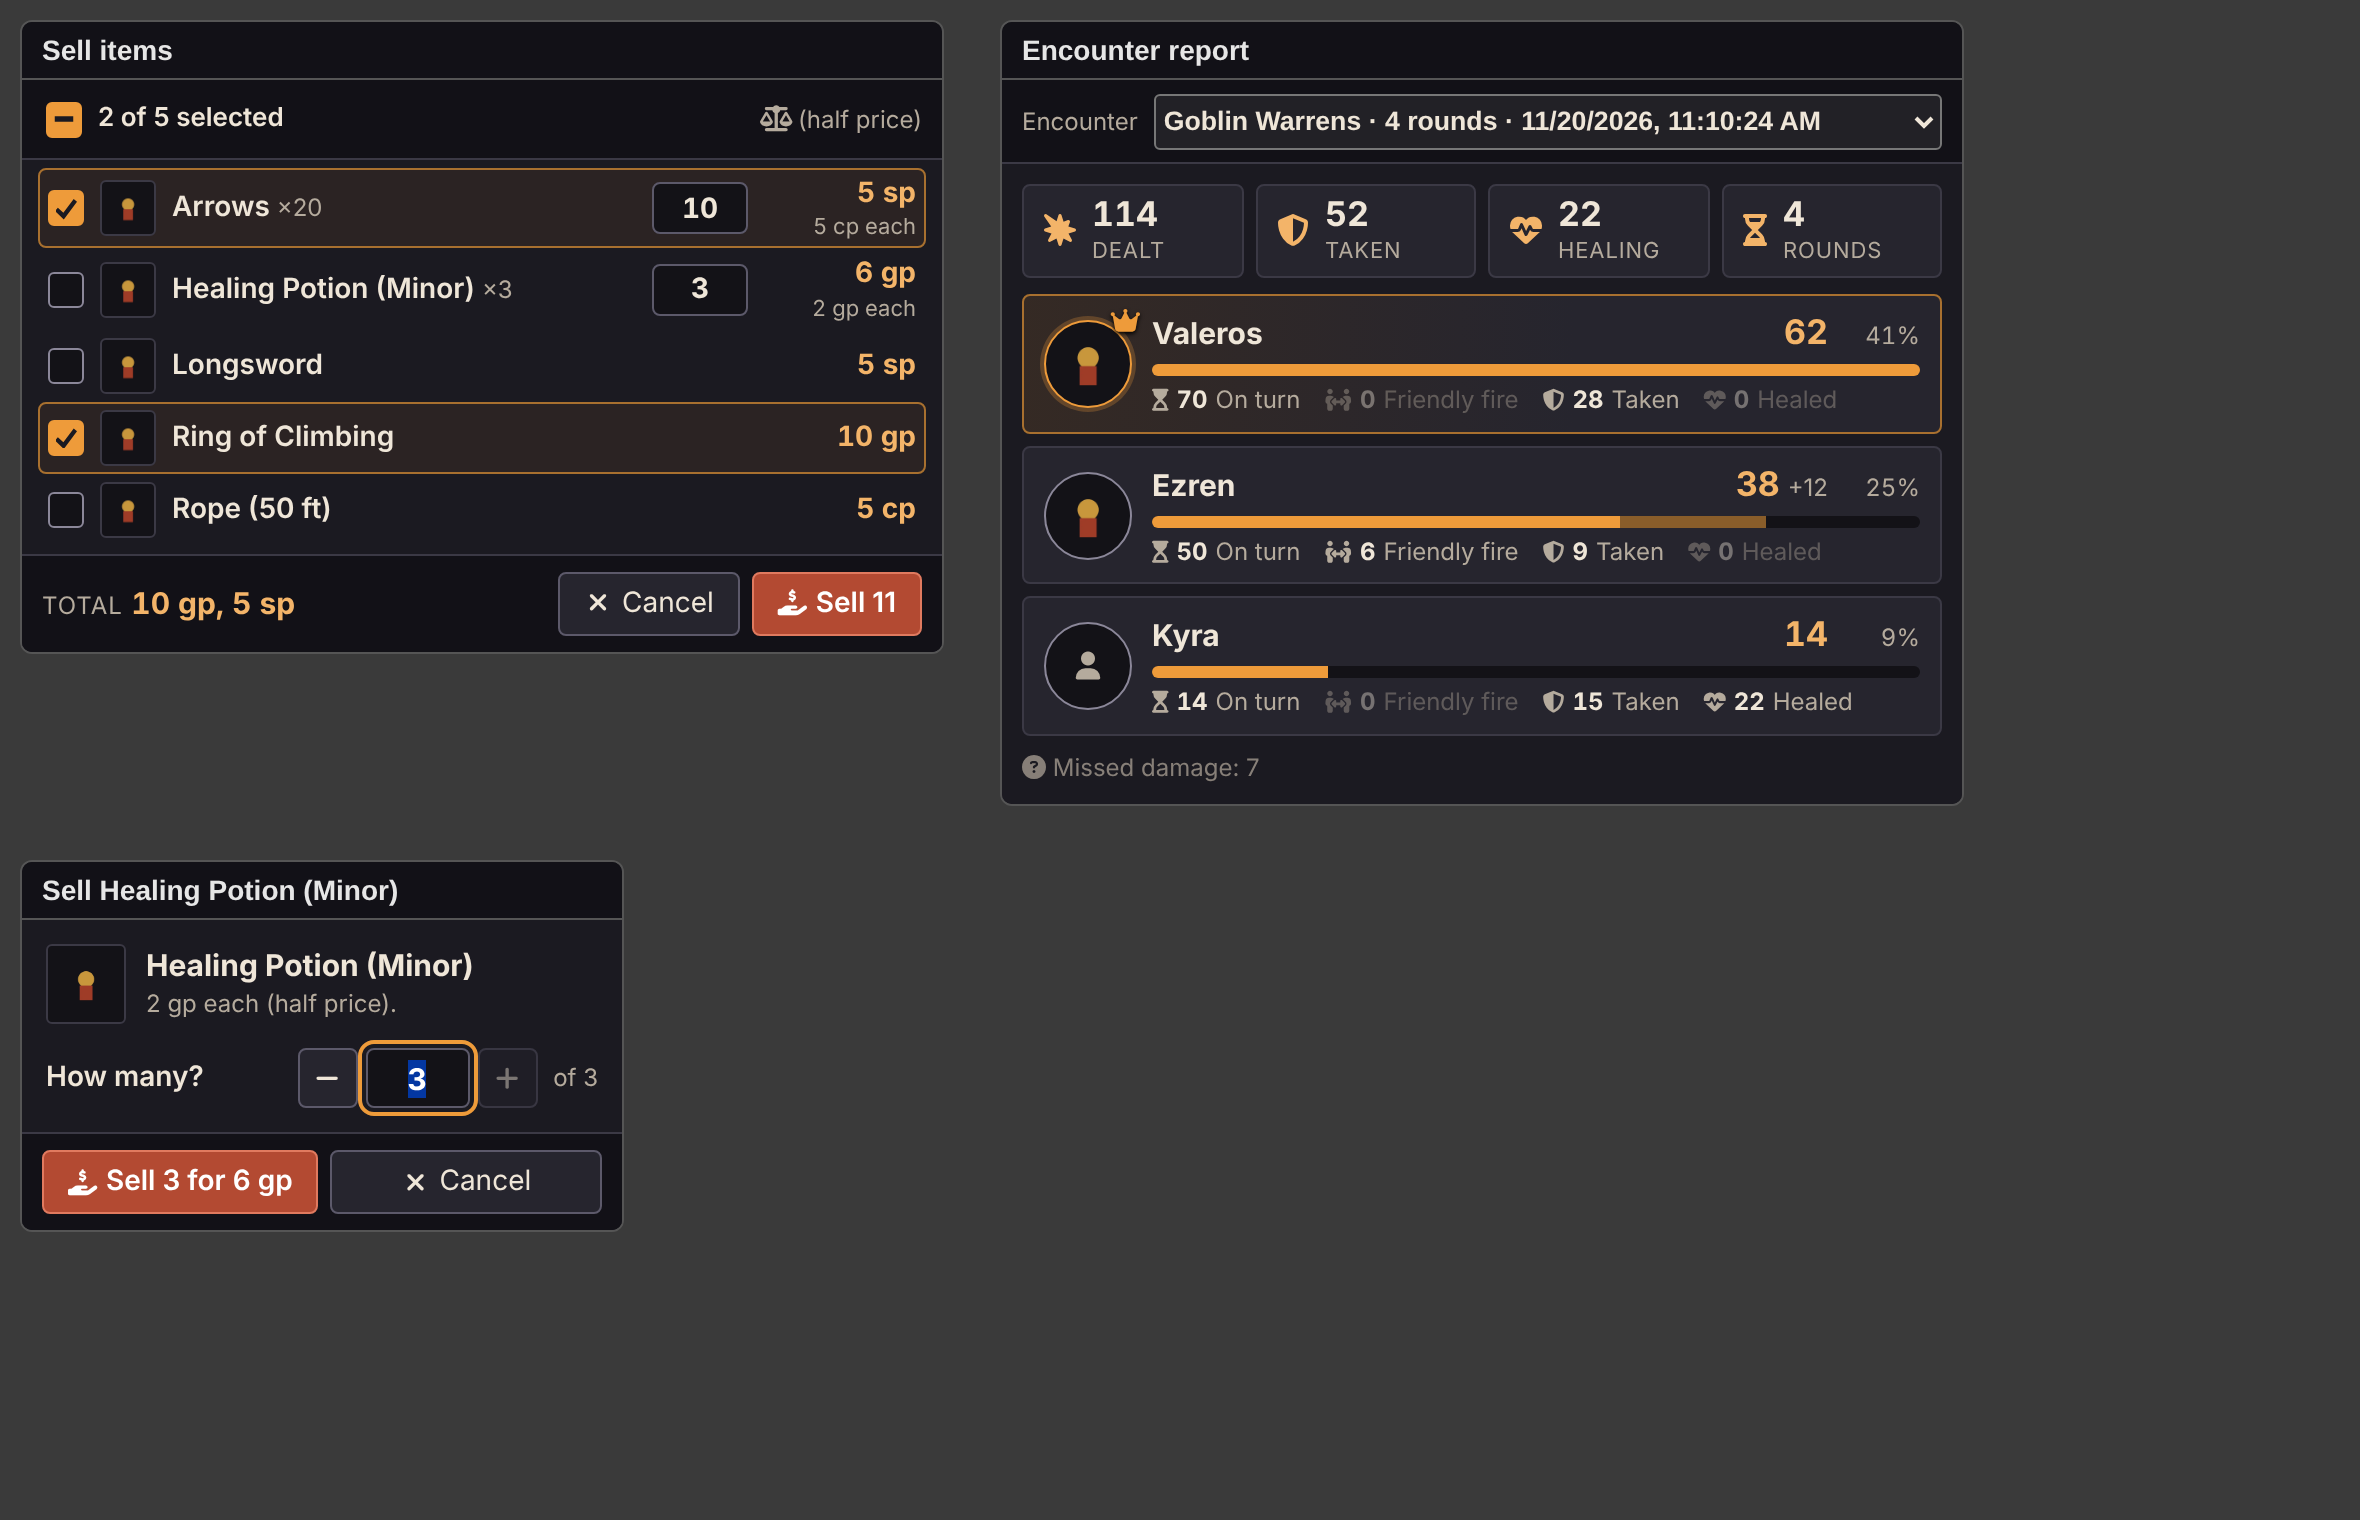
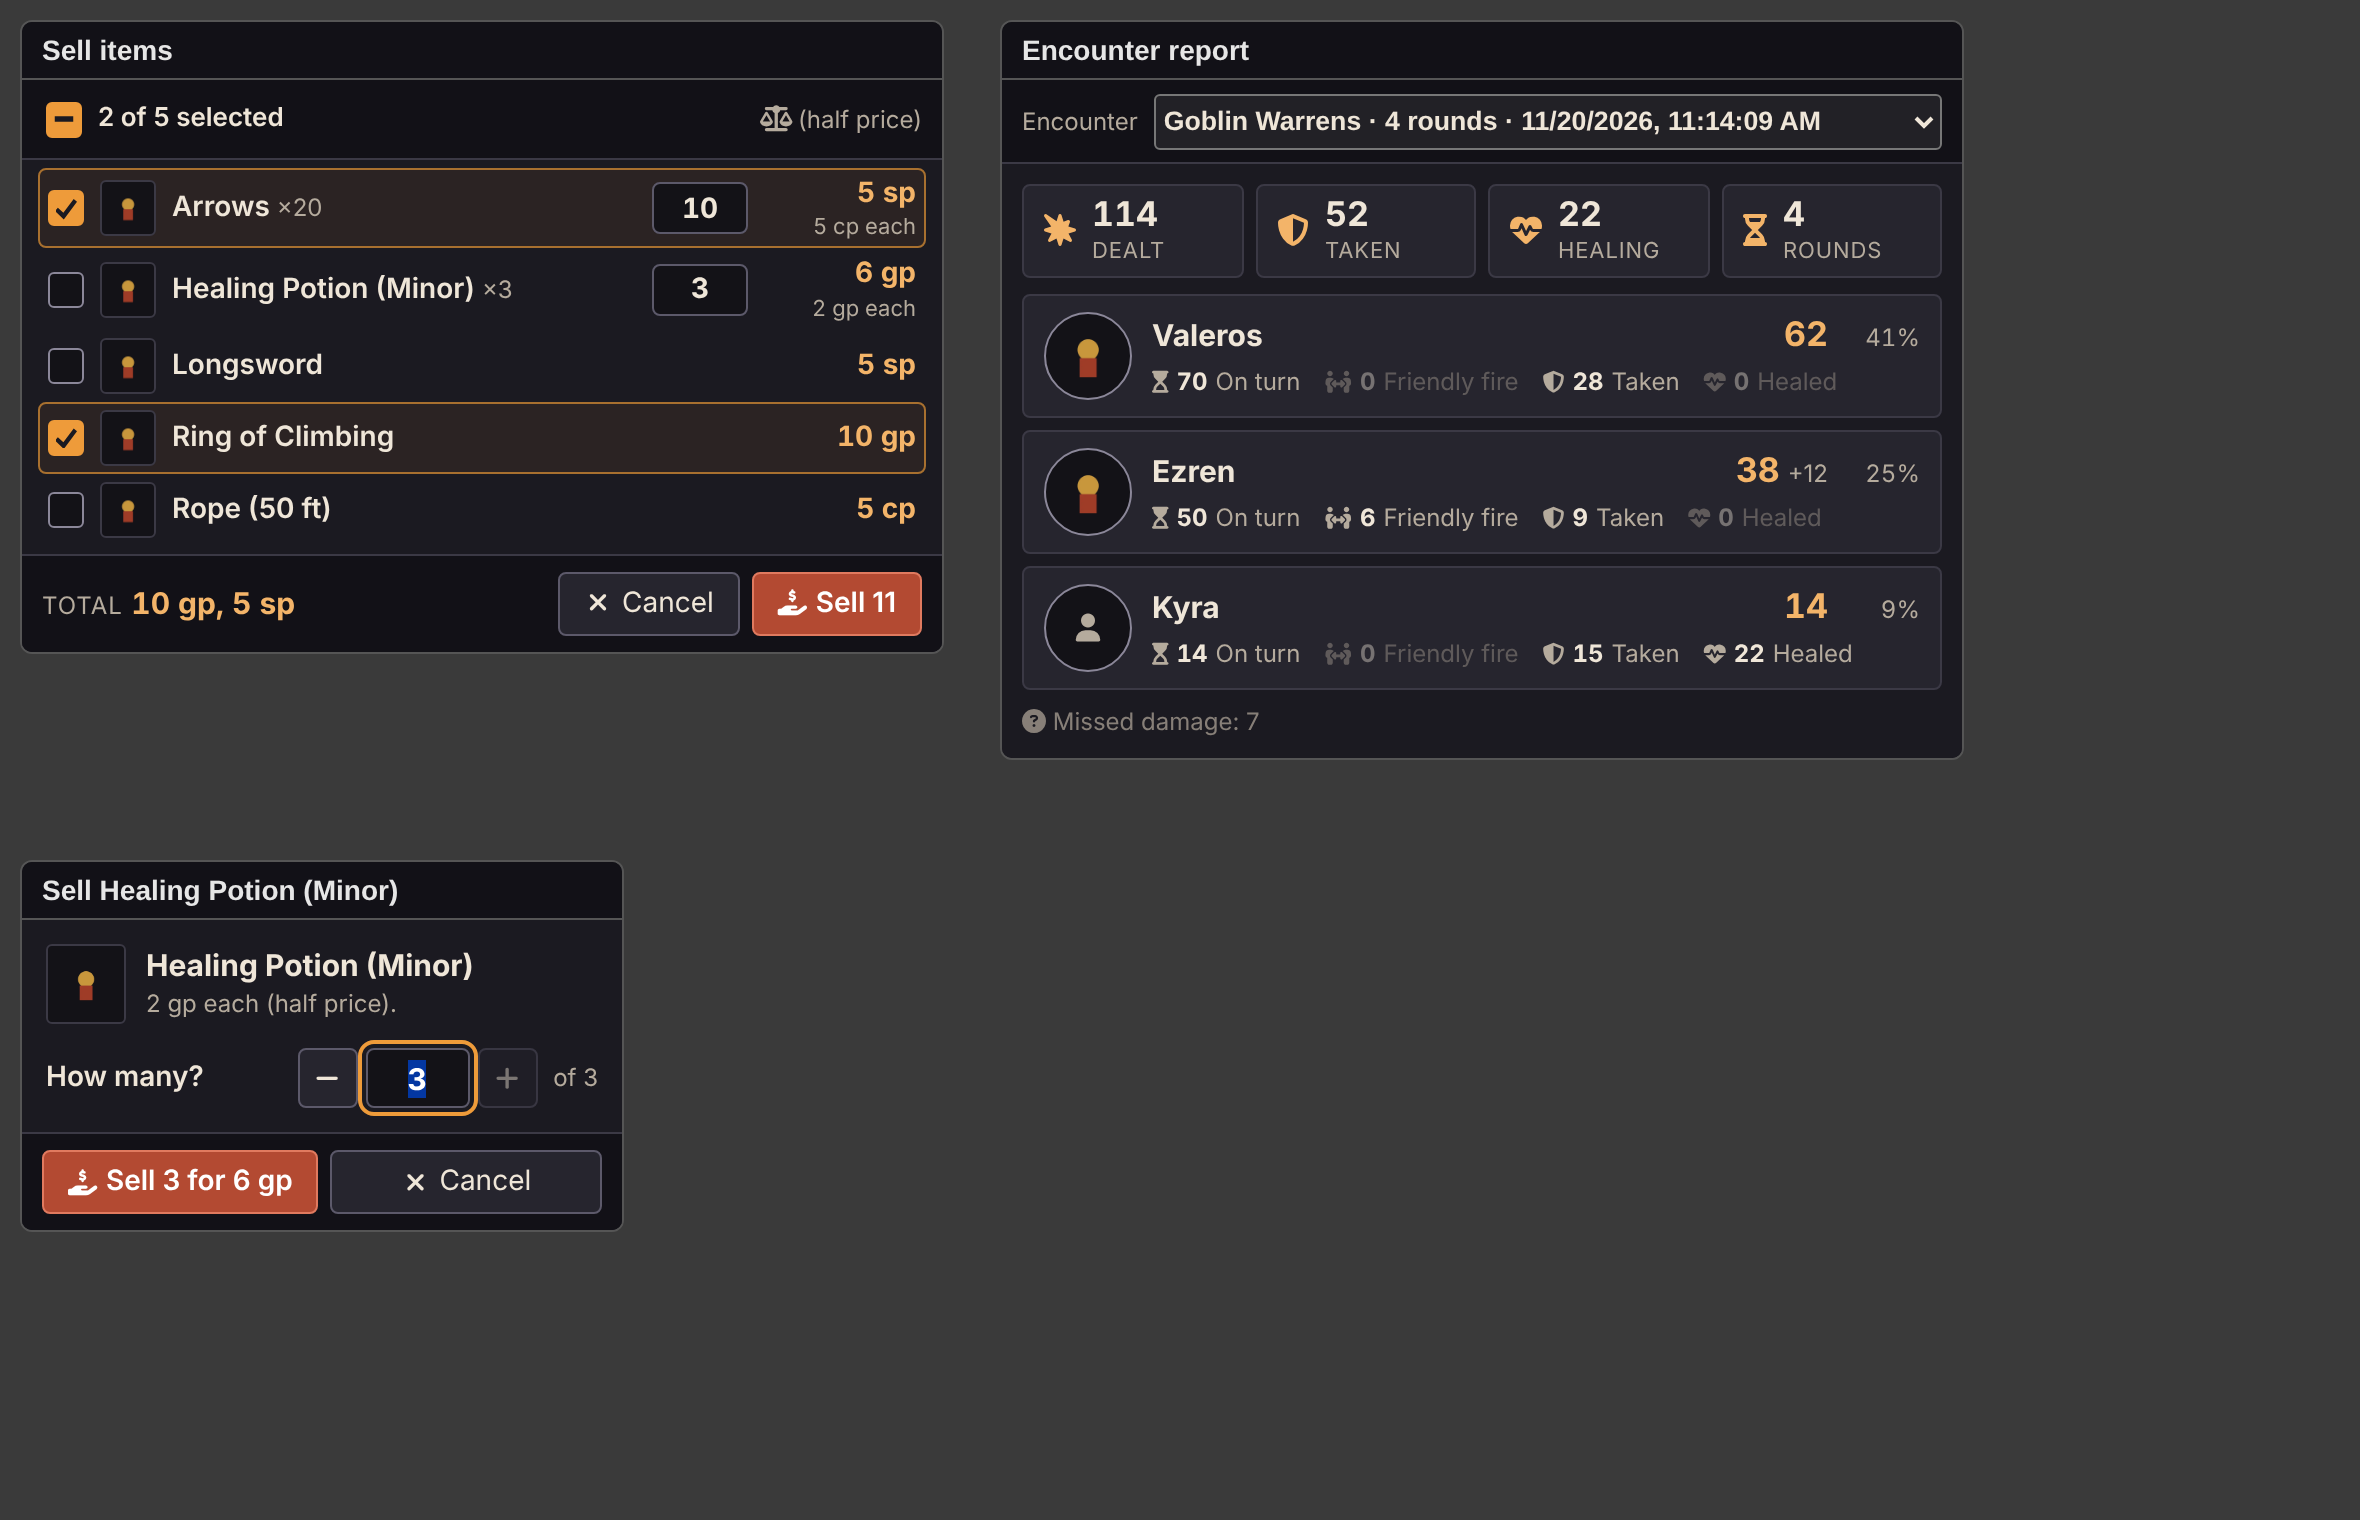
Encounter Report: no crown, no damage bars, sorted by name: just the stats (0.84.6)
Claude-Session: https://claude.ai/code/session_0153o4Cj7a7h2Yvc4QXnWoxi

Changed region(s): [[0.4331, 0.1855, 0.8352, 0.3711], [0.4021, 0.402, 0.8352, 0.5566], [0.6496, 0.402, 0.8042, 0.4638]]

diff --git a/scripts/features/encounter-report.js b/scripts/features/encounter-report.js
@@ -21,7 +21,7 @@ const dbg = (...args) => { if (CONFIG.debug?.lucd20Report || CONFIG.debug?.lucd2
  *
  * The report window (v0.84.3; was a chat card): opens for everyone at the end (option: GM only), with a
  * list of past encounters; reopened from the chat's buttons. One row per creature on the players' side that took part,
- * best first:
+ * by name (v0.84.6; was best first):
  *   Damage (dealt by itself to enemies; minions' / companions' damage also shown added to their master,
  *   "45 +12") | % of enemy HP (its damage ÷ the HP the enemies had when the combat started) | On its turn
  *   (damage to enemies by anyone on its side during its turn: the commander case) | Friendly fire | Taken |
@@ -199,18 +199,18 @@ export function buildReport(data) {
   const out = Object.values(rows)
     .filter(r => side(r.uuid) === FRIENDLY && !p[r.uuid]?.hidden)
     .map(r => ({ ...r, pct: enemyHP(side(r.uuid)) ? Math.round((r.damage / enemyHP(side(r.uuid))) * 100) : 0 }))
-    .sort((a, b) => b.damage + b.companions - (a.damage + a.companions) || a.name.localeCompare(b.name));
+    .sort((a, b) => a.name.localeCompare(b.name));
   return { rows: out, missed };
 }
 
 /**
- * The report (v0.84.5, restyled in the Loot Pile's look): totals on top, then one card per creature, best first:
- * portrait, name, damage with a bar (its share of the best), % of enemy HP, and the small stats. Zeros are faded.
+ * The report (v0.84.5, restyled in the Loot Pile's look): totals on top, then one card per creature, by name
+ * (v0.84.6, owner: no crown, no bars, no ranking: "this will cause feels bad"; just the stats): portrait, name,
+ * damage, % of enemy HP, and the small stats. Zeros are faded.
  */
 export function reportHTML(report, { rounds = null } = {}) {
   const rows = report.rows ?? [];
   const sum = key => rows.reduce((n, r) => n + (r[key] || 0), 0);
-  const best = Math.max(1, ...rows.map(r => r.damage + r.companions));
   const tile = (key, value, icon) => `<div class="lpr-tile" data-tooltip="${esc(t(`Tile.${key}Hint`))}"><i class="fa-solid ${icon}"></i><b>${value}</b><span>${esc(t(`Tile.${key}`))}</span></div>`;
   const tiles = `<div class="lpr-tiles">
       ${tile("Damage", sum("damage"), "fa-burst")}
@@ -219,17 +219,14 @@ export function reportHTML(report, { rounds = null } = {}) {
       ${rounds != null ? tile("Rounds", rounds, "fa-hourglass-half") : ""}
     </div>`;
   const stat = (key, value, icon) => `<span class="lpr-stat ${value ? "" : "is-zero"}" data-col="${key}" data-tooltip="${esc(t(`Col.${key}Hint`))}"><i class="fa-solid ${icon}"></i><b>${value || 0}</b><span>${esc(t(`Col.${key}`))}</span></span>`;
-  const cards = rows.map((r, n) => {
-    const total = r.damage + r.companions;
-    const own = Math.round((r.damage / best) * 100), comp = Math.round((r.companions / best) * 100);
+  const cards = rows.map(r => {
     const img = r.img ? `<img src="${esc(r.img)}" alt="">` : `<i class="fa-solid fa-user"></i>`;
-    return `<li class="lpr-row ${n === 0 && total ? "is-top" : ""}" data-uuid="${esc(r.uuid)}">
-      <span class="lpr-portrait">${img}${n === 0 && total ? `<i class="fa-solid fa-crown lpr-crown" data-tooltip="${esc(t("Top"))}"></i>` : ""}</span>
+    return `<li class="lpr-row" data-uuid="${esc(r.uuid)}">
+      <span class="lpr-portrait">${img}</span>
       <div class="lpr-main">
         <div class="lpr-line"><span class="lpr-name" data-col="Name">${esc(r.name)}</span>
           <span class="lpr-dmg" data-col="Damage" data-tooltip="${esc(t("Col.DamageHint"))}"><b>${r.damage}</b>${r.companions ? ` <span class="lpr-plus">+${r.companions}</span>` : ""}</span>
           <span class="lpr-pct" data-col="Percent" data-tooltip="${esc(t("Col.PercentHint"))}">${r.pct}%</span></div>
-        <div class="lpr-bar" aria-hidden="true"><span class="own" style="width:${own}%"></span><span class="comp" style="width:${comp}%"></span></div>
         <div class="lpr-stats">${stat("OnTurn", r.onTurn, "fa-hourglass-start")}${stat("Friendly", r.friendly, "fa-people-arrows")}${stat("Taken", r.taken, "fa-shield-halved")}${stat("Healed", r.healed, "fa-heart-pulse")}</div>
       </div>
     </li>`;

diff --git a/styles/lucd20.css b/styles/lucd20.css
@@ -2920,20 +2920,14 @@ li:has(> .lucd20-scene-nav) {
 .lucd20-report-app .lpr-tile span { color: var(--ll-text-muted); font-size: 11px; text-transform: uppercase; letter-spacing: 0.04em; white-space: nowrap; }
 .lucd20-report-app .lpr-rows { display: flex; flex-direction: column; gap: 6px; margin: 0; padding: 0; list-style: none; }
 .lucd20-report-app .lpr-row { display: flex; align-items: center; gap: 10px; margin: 0; padding: 8px 10px; border: 1px solid var(--ll-border); border-radius: var(--ll-radius); background: var(--ll-bg-raised); }
-.lucd20-report-app .lpr-row.is-top { border-color: var(--ll-accent-border); background: linear-gradient(90deg, rgba(238, 155, 58, 0.12), var(--ll-bg-raised) 60%); }
 .lucd20-report-app .lpr-portrait { position: relative; flex: none; display: grid; place-items: center; width: 44px; height: 44px; border: 1px solid #8b8799; border-radius: 50%; background: var(--ll-bg-sunken); color: var(--ll-text-muted); }
 .lucd20-report-app .lpr-portrait img { width: 100%; height: 100%; border-radius: 50%; object-fit: cover; object-position: top; }
-.lucd20-report-app .lpr-row.is-top .lpr-portrait { border-color: var(--ll-accent); box-shadow: 0 0 0 2px rgba(238, 155, 58, 0.25); }
-.lucd20-report-app .lpr-crown { position: absolute; top: -7px; right: -5px; color: var(--ll-accent); font-size: 13px; filter: drop-shadow(0 1px 1px #000); }
 .lucd20-report-app .lpr-main { display: flex; flex: 1; flex-direction: column; gap: 4px; min-width: 0; }
 .lucd20-report-app .lpr-line { display: flex; align-items: baseline; gap: 8px; }
 .lucd20-report-app .lpr-name { flex: 1; min-width: 0; overflow: hidden; font-size: 15px; font-weight: 700; text-overflow: ellipsis; white-space: nowrap; }
 .lucd20-report-app .lpr-dmg b { color: var(--ll-accent-text); font-size: 17px; font-variant-numeric: tabular-nums; }
 .lucd20-report-app .lpr-plus { color: var(--ll-text-muted); font-size: 12px; }
 .lucd20-report-app .lpr-pct { min-width: 38px; color: var(--ll-text-muted); font-size: 12px; text-align: right; font-variant-numeric: tabular-nums; }
-.lucd20-report-app .lpr-bar { display: flex; height: 6px; overflow: hidden; border-radius: 3px; background: var(--ll-bg-sunken); }
-.lucd20-report-app .lpr-bar .own { background: var(--ll-accent); }
-.lucd20-report-app .lpr-bar .comp { background: var(--ll-accent-border); opacity: 0.8; }
 .lucd20-report-app .lpr-stats { display: flex; flex-wrap: wrap; gap: 4px 12px; }
 .lucd20-report-app .lpr-stat { display: inline-flex; align-items: baseline; gap: 4px; color: var(--ll-text-muted); font-size: 12px; }
 .lucd20-report-app .lpr-stat i { font-size: 11px; }

diff --git a/docs/PLAN.md b/docs/PLAN.md
@@ -3602,7 +3602,11 @@ v0.84.2: the Battle Medicine badge mirrors the reaction badge (same size, bottom
   Healed; zeros faded). The best gets a crown and an accent border.
   "Missed damage" faded at the bottom. Screenshot:
   `docs/mockups/report-sell-0.84.5.png`.
-- Next (owner): "Title / Combat Role": picture, then the role this combat
+- v0.84.6 (owner: "dont do a crown for most damage nor a 'progress bar'.
+  This will cause feels bad. Show just stats"): no crown, no top highlight,
+  no bars; cards sorted by name, not by damage.
+- Next (owner): stats first, then "Hallmark cards" (name to decide): every
+  player always gets one. Was "Title / Combat Role": picture, then the role this combat
   (e.g. "DPS: you dealt X damage", "Meat shield: you took X damage", …).
   To plan with the owner after the window is approved.
 
